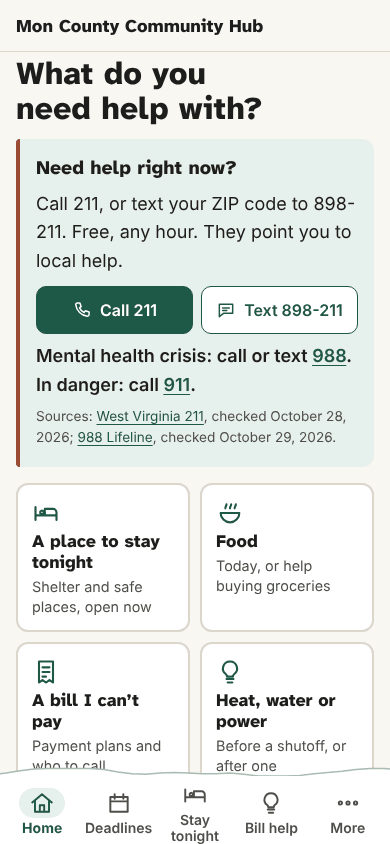
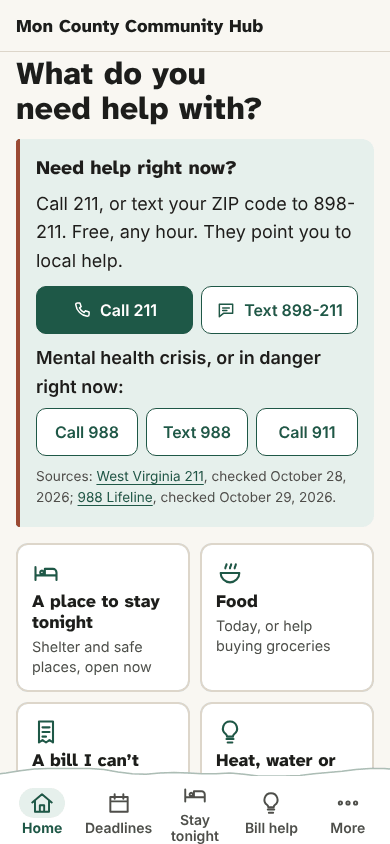
Crisis buttons for 988 and 911, no focus jump on search, 988 wording matches source
Claude-Session: https://claude.ai/code/session_01S2PP8oZE9yWifvToZAyk1T

diff --git a/docs/build-log/2026-10-29-1330-front-door.md b/docs/build-log/2026-10-29-1330-front-door.md
@@ -2,7 +2,7 @@
 
 - **Asked:** David approved identity v2 and said to start with the Front Door (#239): a home page that gets a worried person to help in two taps.
 - **Shipped:**
-  - The home page opens with "What do you need help with?", then a "Need help right now?" box: Call 211 and Text 898-211 side by side, plus 988 for a mental health crisis and 911 for danger, each with its source and checked date.
+  - The home page opens with "What do you need help with?", then a "Need help right now?" box: Call 211 and Text 898-211 side by side, plus Call 988, Text 988, and Call 911 buttons for a crisis or danger, each with its source and checked date.
   - Eight need buttons: a place to stay tonight, food, a bill I can't pay, heat, water or power, rent or eviction, flu or COVID shot, dates and deadlines, and trash and recycling. Each one lands on a page with a phone number, a place, a date, or a question on the first screen.
   - A first question flow for food (`/help/food/`): when do you need food, and are you a WVU student. Each answer is its own page, so it works without scripts, can be shared, and stores nothing. Results point to 211, The Rack (WVU students), Scott's Run Settlement House, upcoming free food dates, and SNAP ("you may qualify").
   - Search with Pagefind (free, open source), built with the site and run on the phone. With JavaScript on, the search box puts the words after "#" in the web address, which browsers never send to the host, so they stay on the phone. With it off, the form still works, but the words appear in the address and the host (GitHub Pages) can see them; the search page says so. We never collect or store searches. Without scripts, the search page also lists every need.
